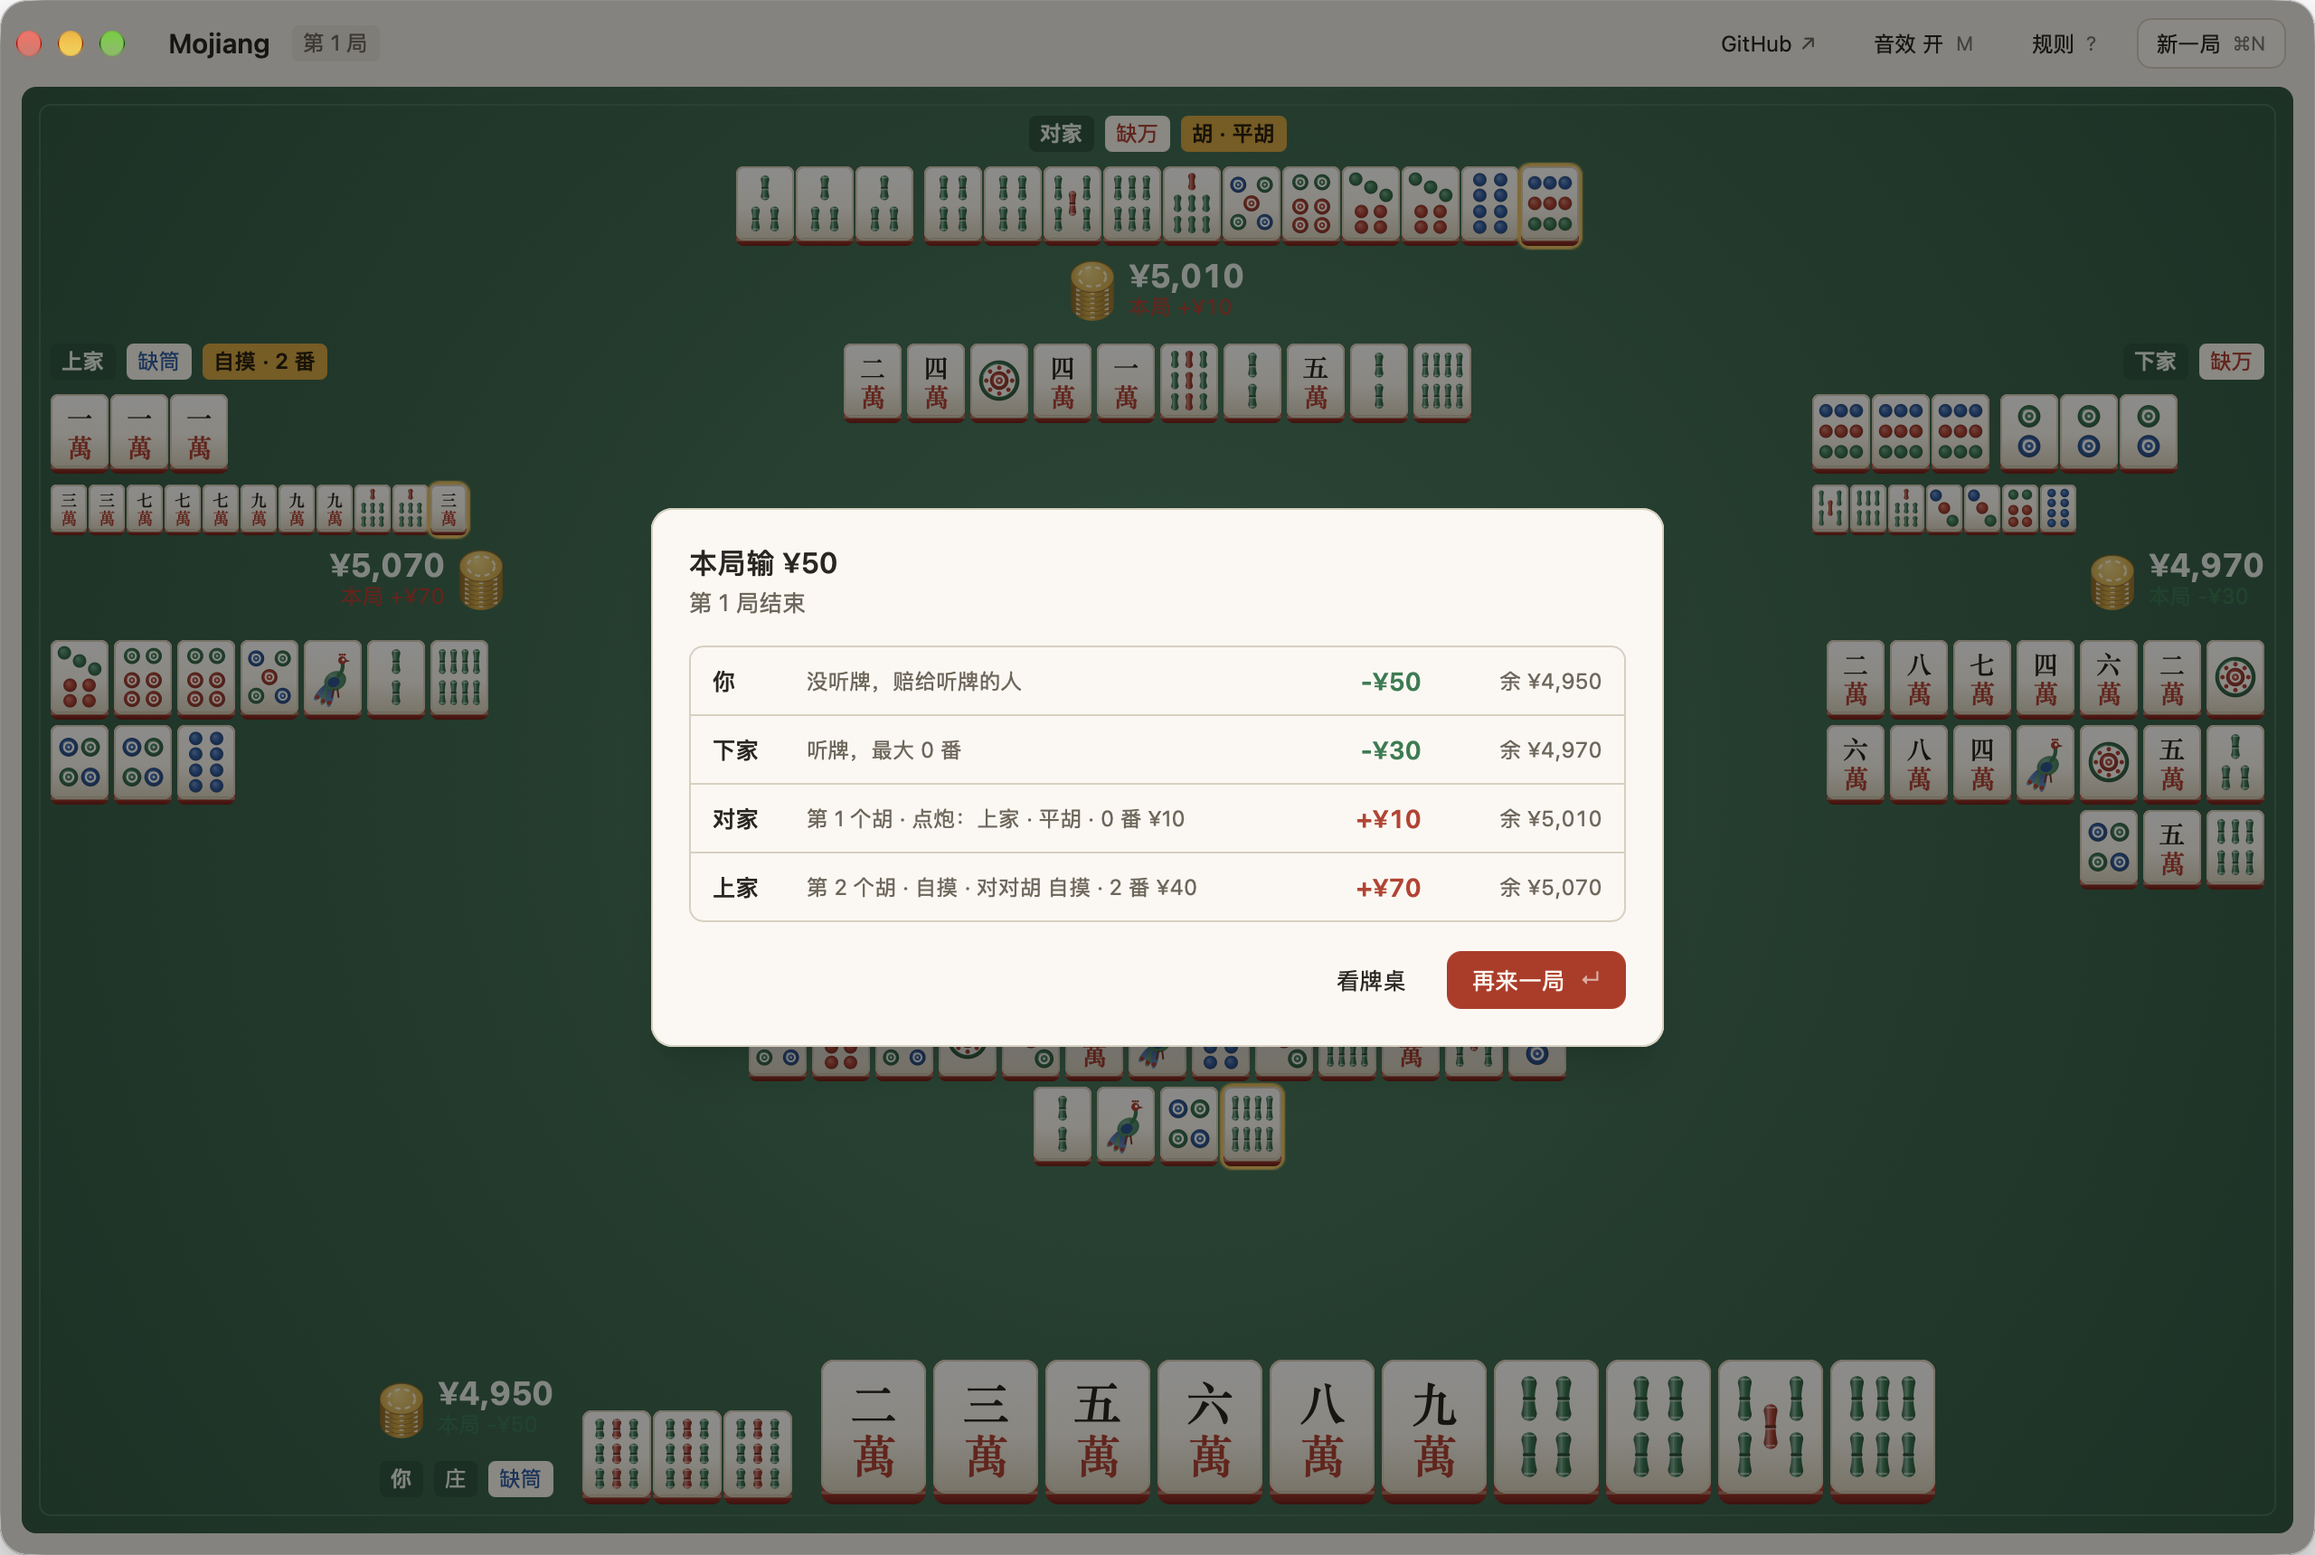
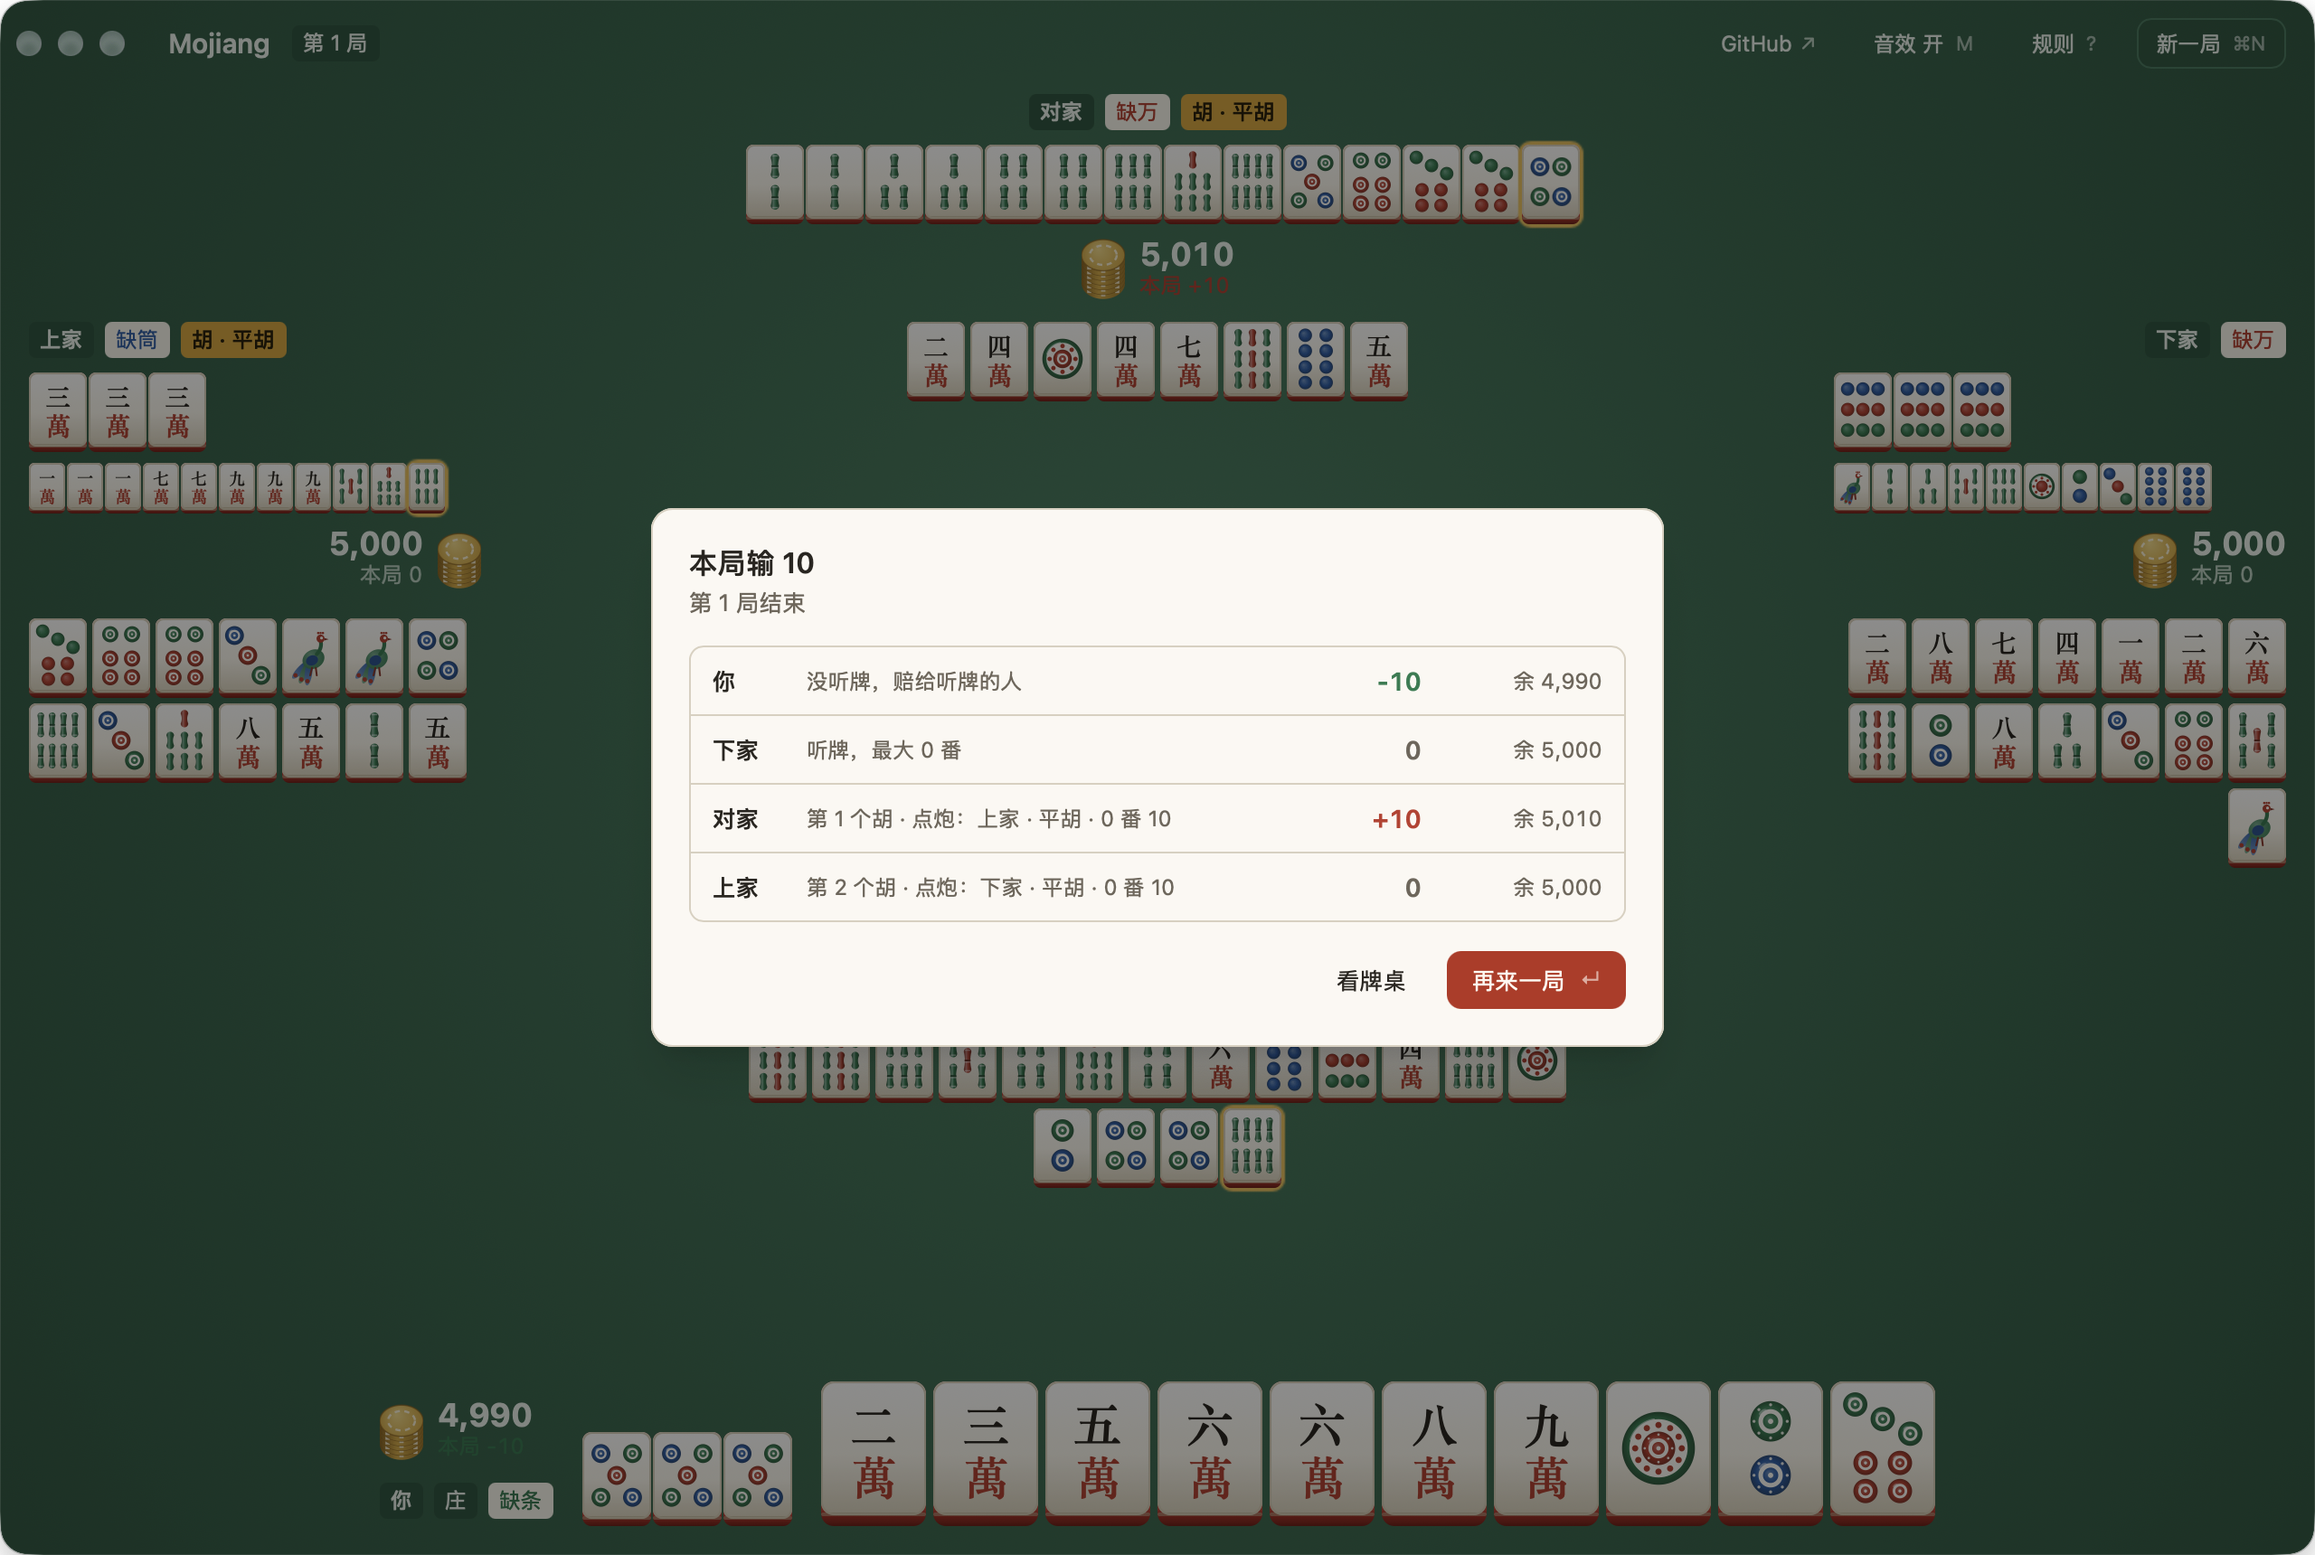
mojang: new repository URL, current screenshots, iPhone preview

diff --git a/apps/mojang/README.md b/apps/mojang/README.md
@@ -14,13 +14,15 @@ A Sichuan Mahjong game in the Xue Zhan Dao Di (Blood Battle) style, built entire
 
 ## Playing
 
-- Each player starts with ¥5,000 and the base stake is ¥10. A chip stack and the balance sit in front of every player and change as soon as money moves.
+- Each player starts with 5,000 chips and the base stake is 10. A chip stack and the balance sit in front of every player and change as soon as money moves.
+- A round opens with your hand, the void suit (the suggested one is preselected), the tile back and the voice, and a Start button.
+- Your void-suit tiles always sit at the right end of the hand.
 - Tap a tile to select it and tap again to discard, or use the arrow keys and Enter on desktop.
 - Win, kong, pong and pass appear when a discard can be claimed, with H, G, P and Esc as shortcuts.
 - The status line shows what you are waiting for after each discard.
 - Each round's results show every player's hand, fan and payout.
 
-![Choosing a void suit, the tile back and the voice](preview1.png)
+![Starting a round: void suit, tile back and voice](preview1.png)
 
 ## Design
 
@@ -29,8 +31,11 @@ A Sichuan Mahjong game in the Xue Zhan Dao Di (Blood Battle) style, built entire
 - Tiles lift, drop and land on springs; the hand ripples as the pointer moves across it; claims and wins pop in.
 - Table sounds are synthesized: the shuffle, drawing a tile, the slap of a discard, the clack of pong and kong.
 - Pong, kong, self-drawn win and win are called out in Sichuan dialect, with a male or a female voice for you; the computers have voices of their own.
+- The felt fills the whole window, title bar included.
 - Light and dark themes; phones play in landscape with a compact table that keeps all fourteen tiles in view.
+
+![On iPhone, in landscape](preview3.png)
 
 ![The results of a round](preview2.png)
 
-Source: https://github.com/huacnlee/mojang
+Source: https://github.com/huacnlee/mahjong
